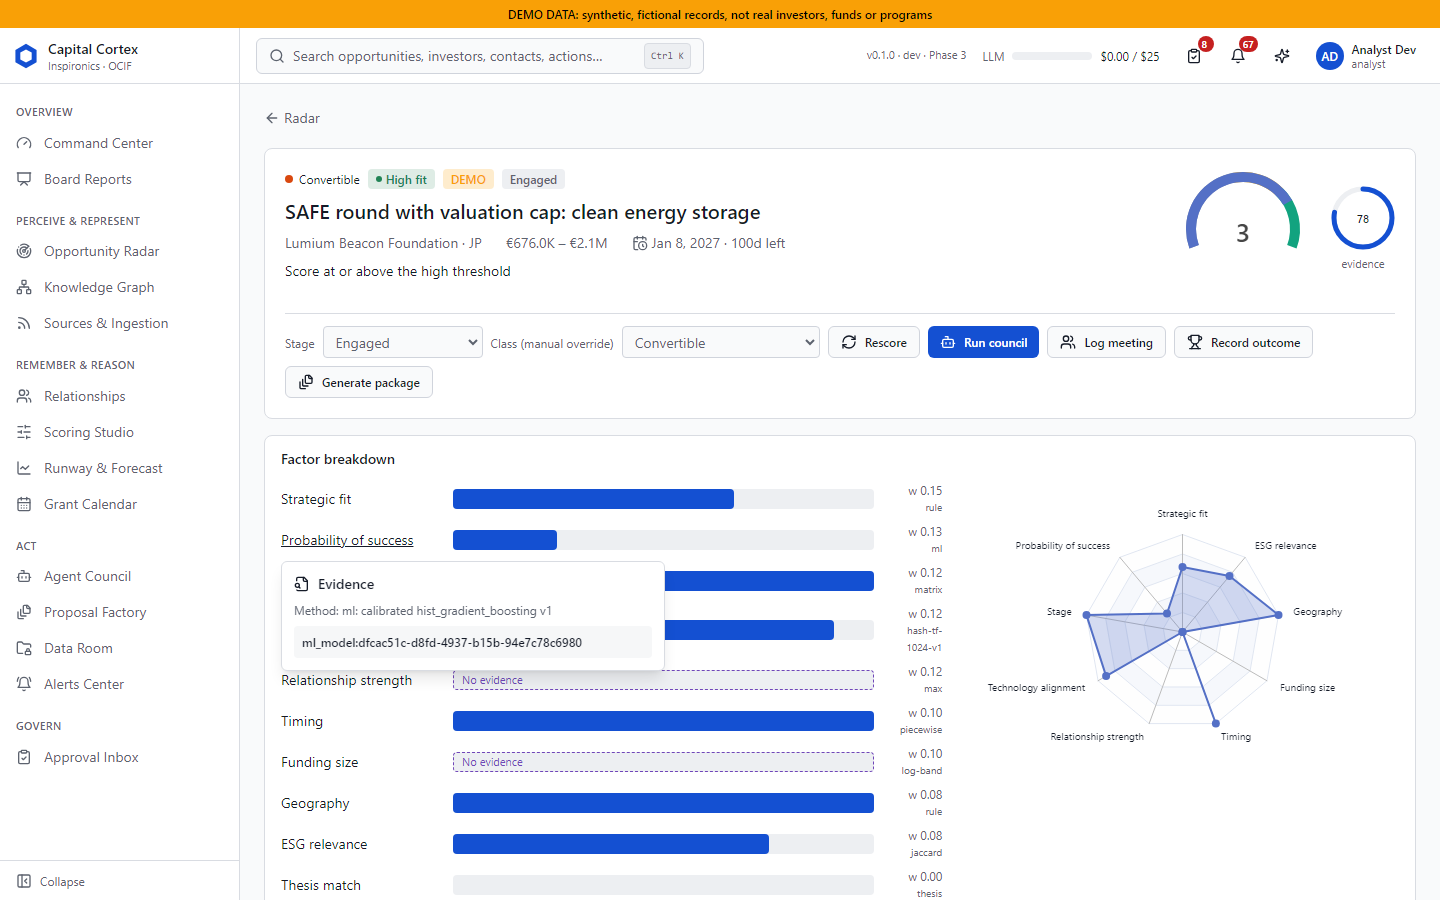
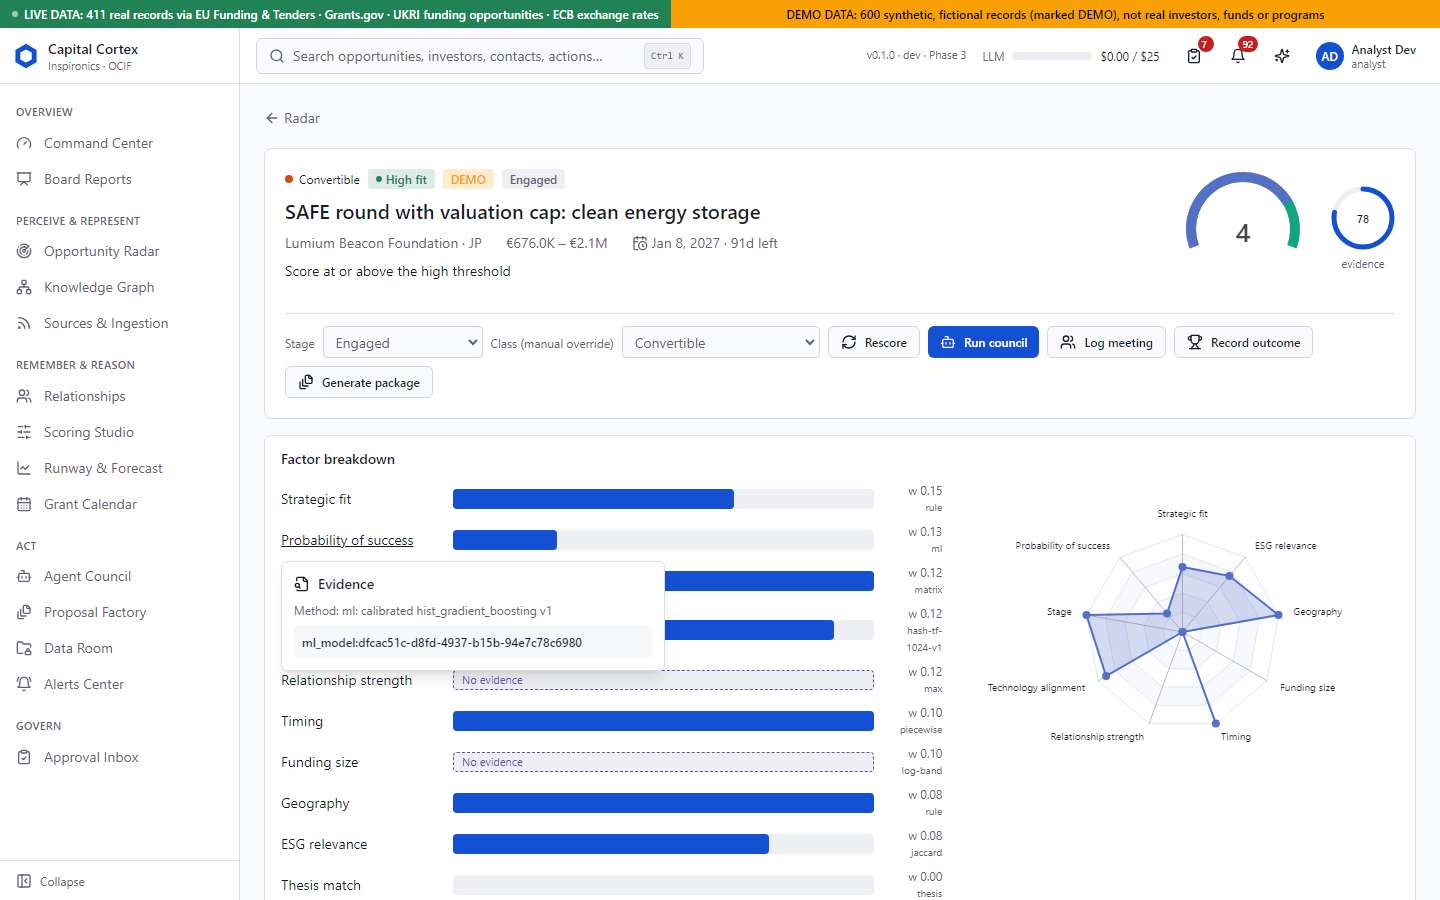
docs: update traceability, openapi specs, and phase screenshots

Changed region(s): [[0.0, 0.0, 0.9062, 0.0311], [0.5, 0.2489, 0.5625, 0.28], [0.8438, 0.2489, 0.875, 0.28]]

diff --git a/docs/traceability.md b/docs/traceability.md
@@ -5,7 +5,7 @@ _Generated from `docs/traceability.yaml` by `scripts/check_traceability.py --wri
 | SyRS | Title | Layer | Phase | Modules | Endpoints | Screens | Tests |
 |---|---|---|---|---|---|---|---|
 | FR-01 | Continuous discovery of capital opportunities | L1 | 1 | `cortex.l1_perception`<br>`cortex.l1_perception.adapters.msgraph` | `POST /v1/signals`<br>`GET /v1/sources`<br>`PATCH /v1/sources/{id}`<br>`POST /v1/sources/{id}/run`<br>`POST /v1/sources/{id}/upload`<br>`POST /v1/sources/{id}/entries`<br>`GET /v1/sources/{id}/runs`<br>`GET /v1/ingestion/dlq`<br>`POST /v1/ingestion/dlq/{dlq_id}/replay`<br>`GET /v1/events/stream`<br>`POST /v1/sources/{id}/upload (ics)` | sources, radar | `tests/unit/test_l1_l2.py::test_grants_gov_normalization`<br>`tests/unit/test_l1_l2.py::test_tabular_csv_and_normalize`<br>`tests/unit/test_l1_l2.py::test_content_hash_changes_with_content_only`<br>`tests/unit/test_bus.py::test_retry_then_dlq`<br>`tests/unit/test_bus.py::test_dlq_replay`<br>`tests/integration/test_api_flow.py::test_phase1_definition_of_done`<br>`apps/web/e2e/phase1.spec.ts::screens render real data end to end`<br>`tests/unit/test_phase2_adapters.py::test_ics_parse_and_normalize`<br>`tests/unit/test_phase2_adapters.py::test_imap_headers_only`<br>`tests/unit/test_phase2_adapters.py::test_html_adapter_honours_robots`<br>`tests/unit/test_phase2_adapters.py::test_html_extract_selectors`<br>`tests/unit/test_phase3_assets.py::test_graph_mail_and_event_items`<br>`tests/unit/test_phase3_assets.py::test_graph_mail_adapter_fetches_with_client_credentials` |
-| FR-02 | Classification and the Capital Knowledge Graph | L2 | 1 | `cortex.l2_representation`<br>`platform_core.db.age`<br>`platform_core.db.vector`<br>`cortex.l2_representation.graph_traversal` | `GET /v1/graph/query`<br>`GET /v1/graph/paths`<br>`GET /v1/graph/stats`<br>`GET /v1/entities/merge-queue`<br>`POST /v1/entities/merge-queue`<br>`POST /v1/entities/{id}/merge`<br>`POST /v1/entities/{id}/unmerge` | graph, radar, admin | `tests/unit/test_l1_l2.py::test_classifier_rules`<br>`tests/unit/test_l1_l2.py::test_ambiguous_programme_reports_low_confidence_and_runner_up`<br>`tests/unit/test_l1_l2.py::test_typer_tags`<br>`tests/unit/test_l1_l2.py::test_resolver_normalization_and_similarity`<br>`tests/integration/test_pipeline.py::test_signal_becomes_scored_opportunity_in_graph`<br>`tests/integration/test_pipeline.py::test_revised_listing_updates_same_opportunity_and_keeps_human_class`<br>`tests/integration/test_pipeline.py::test_same_counterparty_resolves_to_one_organization`<br>`tests/integration/test_schema.py::test_pgvector_hnsw_search`<br>`evals/run.py::classification_accuracy`<br>`tests/integration/test_graph_traversal.py::test_neighbourhood_and_paths_match_cypher` |
+| FR-02 | Classification and the Capital Knowledge Graph | L2 | 1 | `cortex.l2_representation`<br>`platform_core.db.age`<br>`platform_core.db.vector`<br>`cortex.l2_representation.graph_traversal` | `GET /v1/graph/query`<br>`GET /v1/graph/paths`<br>`GET /v1/graph/reachable`<br>`GET /v1/graph/stats`<br>`GET /v1/entities/merge-queue`<br>`POST /v1/entities/merge-queue`<br>`POST /v1/entities/{id}/merge`<br>`POST /v1/entities/{id}/unmerge` | graph, radar, admin | `tests/unit/test_l1_l2.py::test_classifier_rules`<br>`tests/unit/test_l1_l2.py::test_ambiguous_programme_reports_low_confidence_and_runner_up`<br>`tests/unit/test_l1_l2.py::test_typer_tags`<br>`tests/unit/test_l1_l2.py::test_resolver_normalization_and_similarity`<br>`tests/integration/test_pipeline.py::test_signal_becomes_scored_opportunity_in_graph`<br>`tests/integration/test_pipeline.py::test_revised_listing_updates_same_opportunity_and_keeps_human_class`<br>`tests/integration/test_pipeline.py::test_same_counterparty_resolves_to_one_organization`<br>`tests/integration/test_schema.py::test_pgvector_hnsw_search`<br>`evals/run.py::classification_accuracy`<br>`tests/integration/test_graph_traversal.py::test_neighbourhood_and_paths_match_cypher`<br>`tests/integration/test_graph_traversal.py::test_seed_graph_reachable_nodes_all_have_paths`<br>`tests/integration/test_graph_traversal.py::test_statement_timeout_is_recognised`<br>`tests/unit/test_graph_paths.py::test_reachable_is_exactly_what_paths_can_find`<br>`tests/unit/test_graph_paths.py::test_paths_deterministic_whatever_the_storage_order`<br>`tests/unit/test_graph_paths.py::test_search_timeout_is_503_problem` |
 | FR-03 | Capital Opportunity Score (configurable, explainable) | L4 | 1 | `cortex.l4_reasoning`<br>`cortex.l4_reasoning.ml_scorer` | `GET /v1/opportunities`<br>`GET /v1/opportunities/{id}`<br>`PATCH /v1/opportunities/{id}`<br>`POST /v1/opportunities/bulk`<br>`POST /v1/opportunities/{id}/rescore`<br>`GET /v1/scoring/profiles`<br>`POST /v1/scoring/profiles`<br>`POST /v1/scoring/profiles/{id}/activate`<br>`POST /v1/scoring/preview`<br>`GET /v1/scoring/backtest`<br>`GET /v1/organization/self`<br>`PUT /v1/organization/self`<br>`GET /v1/ml/models`<br>`POST /v1/ml/models/train` | radar, scoring | `tests/unit/test_scoring.py::test_formula_and_completeness`<br>`tests/unit/test_scoring.py::test_insufficient_evidence_band`<br>`tests/unit/test_scoring.py::test_gate_forces_archive`<br>`tests/unit/test_scoring.py::test_missing_profile_yields_gaps_not_values`<br>`tests/unit/test_scoring.py::test_monotonicity_raising_a_factor_never_lowers_score`<br>`tests/integration/test_pipeline.py::test_profile_enables_scoring`<br>`tests/integration/test_api_flow.py::test_phase1_definition_of_done`<br>`evals/run.py::scoring_sanity`<br>`tests/unit/test_phase2_agents.py::test_featurize_uses_missing_indicators_never_imputation`<br>`tests/unit/test_phase2_agents.py::test_calibration_bins`<br>`tests/unit/test_phase2_agents.py::test_calibrated_model_learns_signal_on_synthetic_data`<br>`tests/integration/test_phase2_flow.py::test_alerts_and_outcomes_feedback_edge`<br>`tests/integration/test_phase3_flow.py::test_phase3_definition_of_done`<br>`tests/integration/test_feedback_loop.py::test_trains_on_decision_time_factors_and_promotes_only_better_models` |
 | FR-04 | Relationship intelligence | L3 | 2 | `cortex.l3_memory.relationship_service`<br>`cortex.l3_memory.warmth`<br>`cortex.l3_memory.recall_api`<br>`cortex.l3_memory.memory_manager`<br>`cortex.l3_memory.consolidation_job`<br>`cortex.l3_memory.interaction_ingest` | `GET /v1/contacts`<br>`POST /v1/contacts`<br>`GET /v1/contacts/{id}`<br>`GET /v1/meetings`<br>`POST /v1/meetings`<br>`POST /v1/interactions`<br>`GET /v1/relationships`<br>`POST /v1/relationships`<br>`GET /v1/milestones`<br>`POST /v1/milestones`<br>`PATCH /v1/milestones/{id}`<br>`GET /v1/relationships/{contact_id}/timeline`<br>`GET /v1/recall`<br>`POST /v1/contacts/{id}/draft-follow-up` | relationships | `tests/unit/test_phase2_agents.py::test_warmth_hand_computed`<br>`tests/unit/test_phase2_agents.py::test_warmth_decays_and_gaps`<br>`tests/unit/test_phase2_agents.py::test_sparkline_is_oldest_first_and_monotone_with_new_touch`<br>`tests/integration/test_phase2_flow.py::test_phase2_definition_of_done`<br>`apps/web/e2e/phase2.spec.ts::analyst runs the council from the UI and sees the live deliberation` |
 | FR-05 | Proposal Factory (collateral generation) | L8 | 3 | `cortex.l8_actuation`<br>`cortex.l8_actuation.proposal_builder`<br>`cortex.l8_actuation.asset_generator`<br>`cortex.l8_actuation.proposals`<br>`cortex.l7_governance.compliance_check` | `POST /v1/proposals/{id}/generate`<br>`GET /v1/proposals/{id}/export`<br>`GET /v1/proposals/catalogue`<br>`GET /v1/proposals`<br>`POST /v1/proposals`<br>`GET /v1/proposals/{id}`<br>`GET /v1/proposals/{id}/versions/{version}`<br>`PUT /v1/proposals/{id}/sections/{key}`<br>`POST /v1/proposals/{id}/sections/{key}/gaps/{gap_id}/resolve`<br>`POST /v1/proposals/{id}/sections/{key}/gaps/{gap_id}/waive`<br>`GET /v1/proposals/{id}/preview`<br>`POST /v1/proposals/{id}/submit`<br>`POST /v1/proposals/{id}/send` | proposals | `tests/contract/test_openapi_contract.py::test_api_contract`<br>`tests/unit/test_phase3_assets.py::test_citation_numbering_and_appendix`<br>`tests/unit/test_phase3_assets.py::test_waived_gap_renders_as_waived_not_required`<br>`tests/unit/test_phase3_assets.py::test_docx_has_markers_gaps_and_appendix`<br>`tests/unit/test_phase3_assets.py::test_pptx_has_section_slides_and_appendix`<br>`tests/unit/test_phase3_assets.py::test_html_escapes_and_marks`<br>`tests/unit/test_phase3_assets.py::test_financial_model_uses_live_formulas`<br>`tests/unit/test_phase3_assets.py::test_financial_model_without_inputs_flags_gaps`<br>`tests/unit/test_phase3_assets.py::test_budget_and_dd_checklist_formulas`<br>`tests/unit/test_phase3_assets.py::test_compose_turns_missing_profile_inputs_into_gaps`<br>`tests/unit/test_phase3_assets.py::test_all_eight_artefacts_are_covered_by_packages`<br>`tests/unit/test_phase3_assets.py::test_compliance_rules_cite_spans`<br>`tests/unit/test_phase3_assets.py::test_compliance_review_blocks_on_blocker`<br>`tests/unit/test_phase3_assets.py::test_collateral_gaps_never_quote_stripped_claims`<br>`tests/integration/test_phase3_flow.py::test_phase3_definition_of_done`<br>`apps/web/e2e/phase3.spec.ts::analyst: packages, data room, board reports, forecast and Copilot` |

diff --git a/docs/DEMO_1.md b/docs/DEMO_1.md
@@ -22,8 +22,13 @@ popovers · change weights → live re-rank · graph path finder works.
    from the raw payload or a declared source default, plus the classification rationale and runner-up.
 6. **Re-rank live:** *Scoring Studio* → move a weight slider. The preview re-ranks with ▲/▼ deltas and
    nothing is saved. Admins can *Save as new version* → *Activate*, which queues a batch rescore.
-7. **Graph:** *Knowledge Graph* → click nodes (inspector + DERIVED_FROM provenance), double-click to expand,
-   and use *Path finder* between an opportunity and its funder.
+7. **Graph:** *Knowledge Graph* → click nodes (inspector + DERIVED_FROM provenance), double-click to expand.
+   *Path finder*: pick a **From** node (searchable; only nodes with at least one edge). The **To** list then
+   holds only the nodes reachable from it within 4 hops, grouped "1 hop", "2 hops"…, so every choice has a
+   path. *Find paths* switches the canvas to **Path view**: only the path nodes and edges, left → right from
+   From, with the shortest path highlighted and its ends ringed. Each path is listed as "n hops: A → B → C";
+   click one to highlight it. *Back to full graph* restores the previous graph, layout and zoom exactly. A
+   search that hits the 5 s limit says "Search timed out — try fewer hops" rather than "No path".
 8. **Radar:** facets (class, band, stage, geography, source), full-text search, Kanban (drag or use the
    per-card stage selector, which is keyboard-accessible), map view, and bulk assign/rescore/archive.
 9. **Runway:** *Runway & Forecast* → import monthly financials (CSV/XLSX → map columns → import), then adjust
